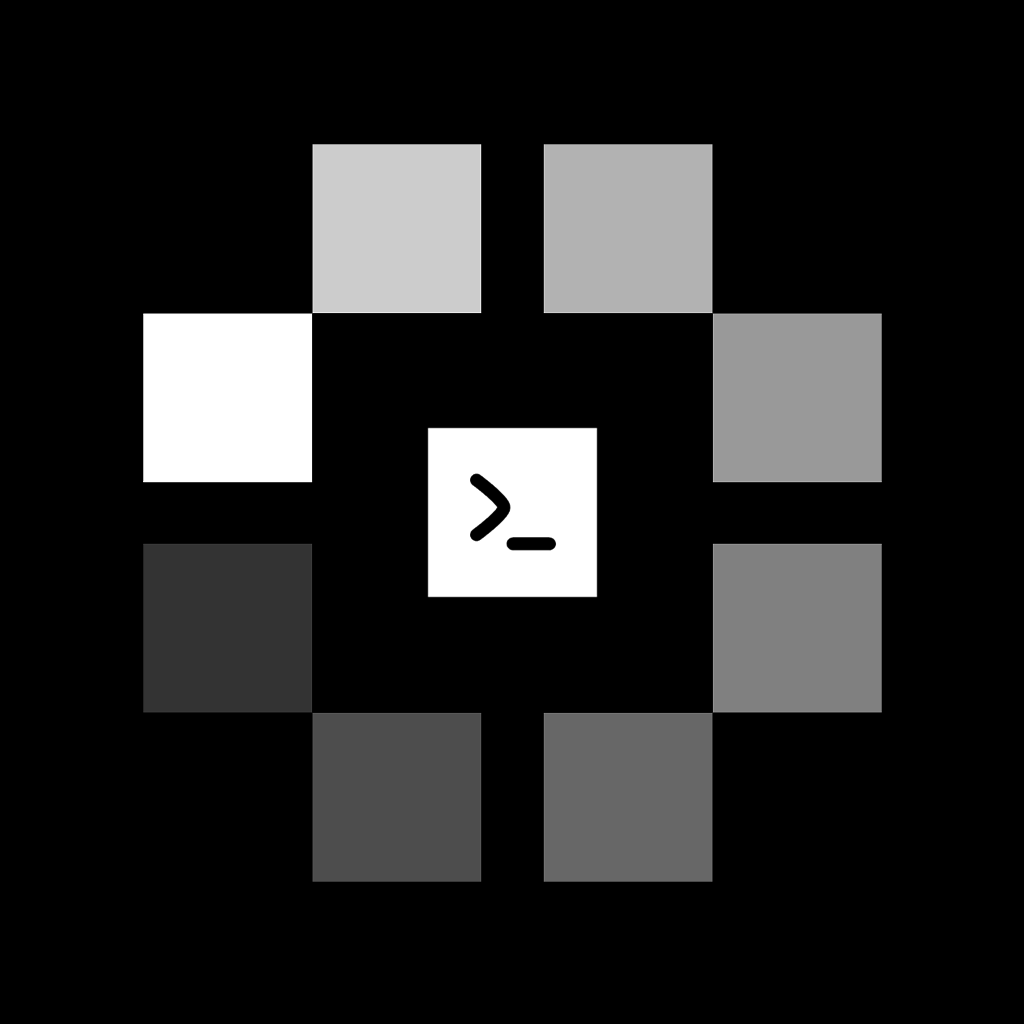
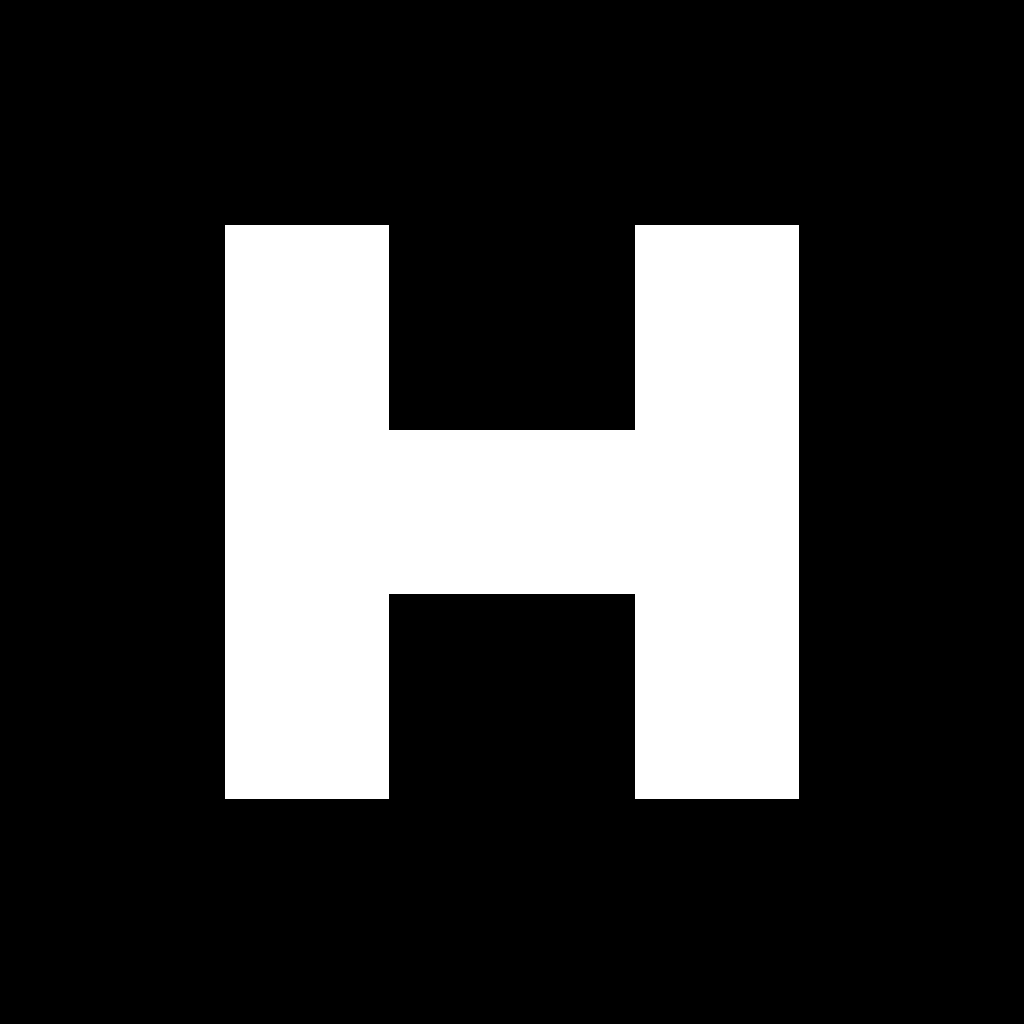
WP-151: replace inherited glyphs with a placeholder H
The one-shot script painted the app icon, splash, favicon, in-app marks and Android layers, then was removed. Transcript artwork is unchanged.

diff --git a/docs/hivra/work/WP-151-mobile-shell.md b/docs/hivra/work/WP-151-mobile-shell.md
@@ -28,4 +28,4 @@ Private development build of the inherited Expo app. Nothing here is submitted t
 
 ## Icons
 
-The asset paths stay as they are, so the existing imports stay. `mobile/scripts/placeholder-icons.py` overwrites those pixels with a placeholder H (app icon, splash, favicon, in-app mark and its inverse, Android adaptive layers) and leaves the native transcript artwork alone. It was not run in this package: the command runner would not start Python. Until it runs, the files are still the inherited MonoCode glyphs.
+The asset paths stay as they are, so the existing imports stay. The inherited glyphs are now a placeholder H (app icon, splash, favicon, in-app mark and its inverse, Android adaptive layers). The native transcript artwork was left alone. The one-shot script that painted those pixels was removed after the images were checked.
